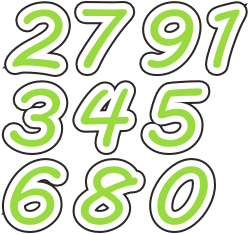
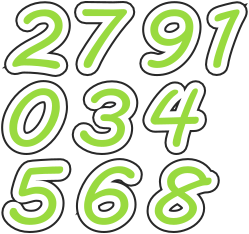
feat: 更新assets

Changed region(s): [[0.0, 0.3291, 0.8996, 1.0]]

diff --git a/projects/hive/nnsd/src/state/card/scene.ts b/projects/hive/nnsd/src/state/card/scene.ts
@@ -2,8 +2,8 @@
  * @Author: kunnisser
  * @Date: 2024-02-01 17:13:42
  * @LastEditors: kunnisser
- * @LastEditTime: 2024-08-26 16:55:47
- * @FilePath: /kunigame/projects/hive/nnsd/src/state/card/scene.ts
+ * @LastEditTime: 2024-09-02 22:58:37
+ * @FilePath: \kunigame\projects\hive\nnsd\src\state\card\scene.ts
  * @Description: ---- 卡牌 ----
  */
 
@@ -36,10 +36,13 @@ class Card extends KnScene {
       texSke: "assets/atlas/role_ske.json",
       texData: "assets/atlas/role_tex.json",
       tex: "assets/atlas/role_tex.png",
-      mob: "assets/images/mob.png",
+      mob: "assets/images/mob_jy.png",
       druidBoneSke: "assets/atlas/deluyi_ske.json",
       druidBoneData: "assets/atlas/deluyi_tex.json",
       druidBone: "assets/atlas/deluyi_tex.png",
+      gdBoneSke: "assets/atlas/gd_ske.json",
+      gdBoneData: "assets/atlas/gd_tex.json",
+      gdBone: "assets/atlas/gd_tex.png",
       font_a: "assets/fonts/font_a.fnt",
       font_b: "assets/fonts/font_b.fnt",
       cureFont: "assets/fonts/cureFont.fnt",

diff --git a/projects/hive/nnsd/src/state/card/cardcontent/mobs/druid.ts b/projects/hive/nnsd/src/state/card/cardcontent/mobs/druid.ts
@@ -18,7 +18,7 @@ class Druid extends CardContent {
     super(game, parent, card);
     this.game = game;
     this.attribute = "npc";
-    this.race = "druid";
+    this.race = "gd";
     this.trophyAble = "fruit";
     this.score = 3;
     this.exp = 200;
@@ -32,10 +32,10 @@ class Druid extends CardContent {
   initial() {
     this.sprite = this.setRole(this.race + "Bone", this.race);
     if (this.sprite) {
-      this.sprite.animation.play("stay");
+      this.sprite.animation.play("idle");
       this.sprite.animation.timeScale = 1;
       this.sprite.scale.set(rem(0.5));
-      this.sprite.y = this.sprite.getBounds().height * 0.4;
+      // this.sprite.y = this.sprite.getBounds().height * 0.4;
       this.addChild(this.sprite);
       this.setHealth(10);
       this.setAttack(2);

diff --git a/projects/hive/nnsd/src/state/card/cardcontent/mobs/index.ts b/projects/hive/nnsd/src/state/card/cardcontent/mobs/index.ts
@@ -2,8 +2,8 @@
  * @Author: kunnisser
  * @Date: 2024-02-03 00:30:29
  * @LastEditors: kunnisser
- * @LastEditTime: 2024-09-02 17:13:24
- * @FilePath: /kunigame/projects/hive/nnsd/src/state/card/cardcontent/mobs/index.ts
+ * @LastEditTime: 2024-09-02 22:54:06
+ * @FilePath: \kunigame\projects\hive\nnsd\src\state\card\cardcontent\mobs\index.ts
  * @Description: ---- 小怪 ----
  */
 import CheckerCardWrap from "../../checkerboard/checkerCard";
